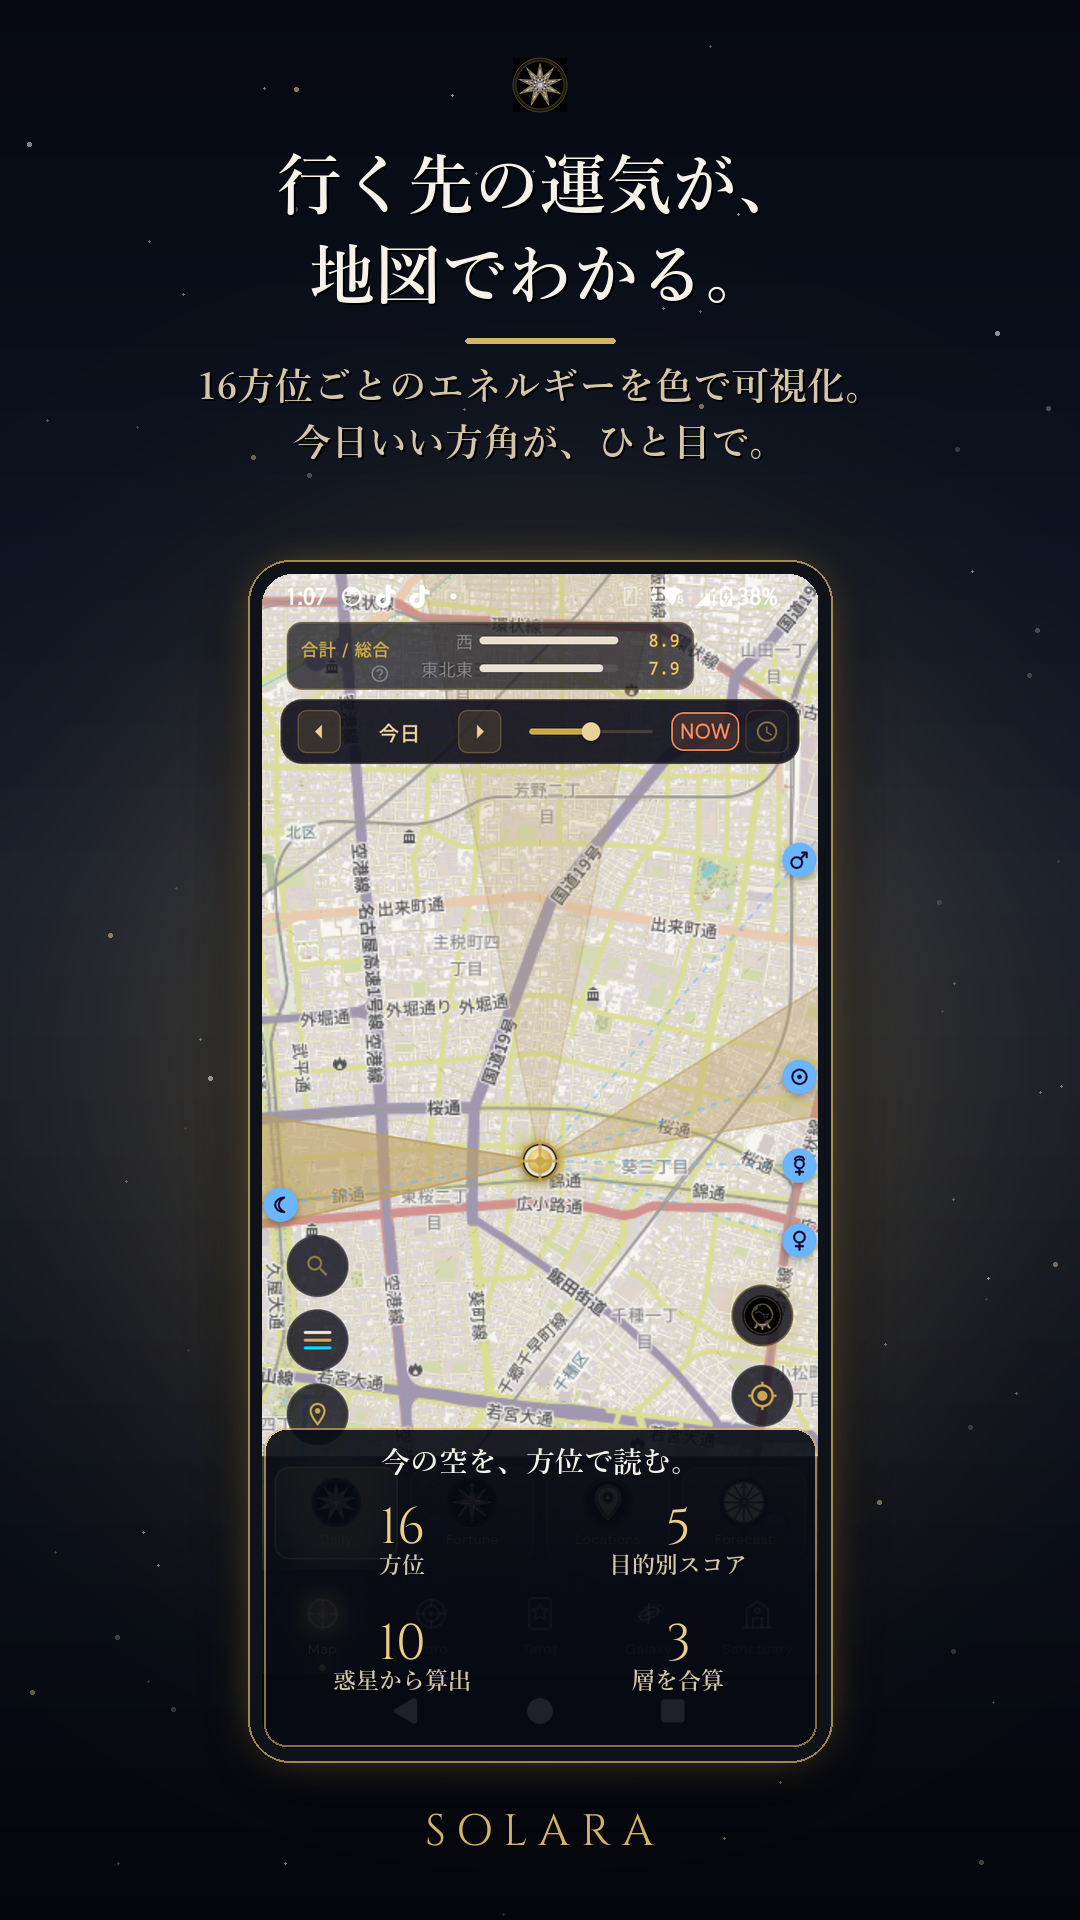
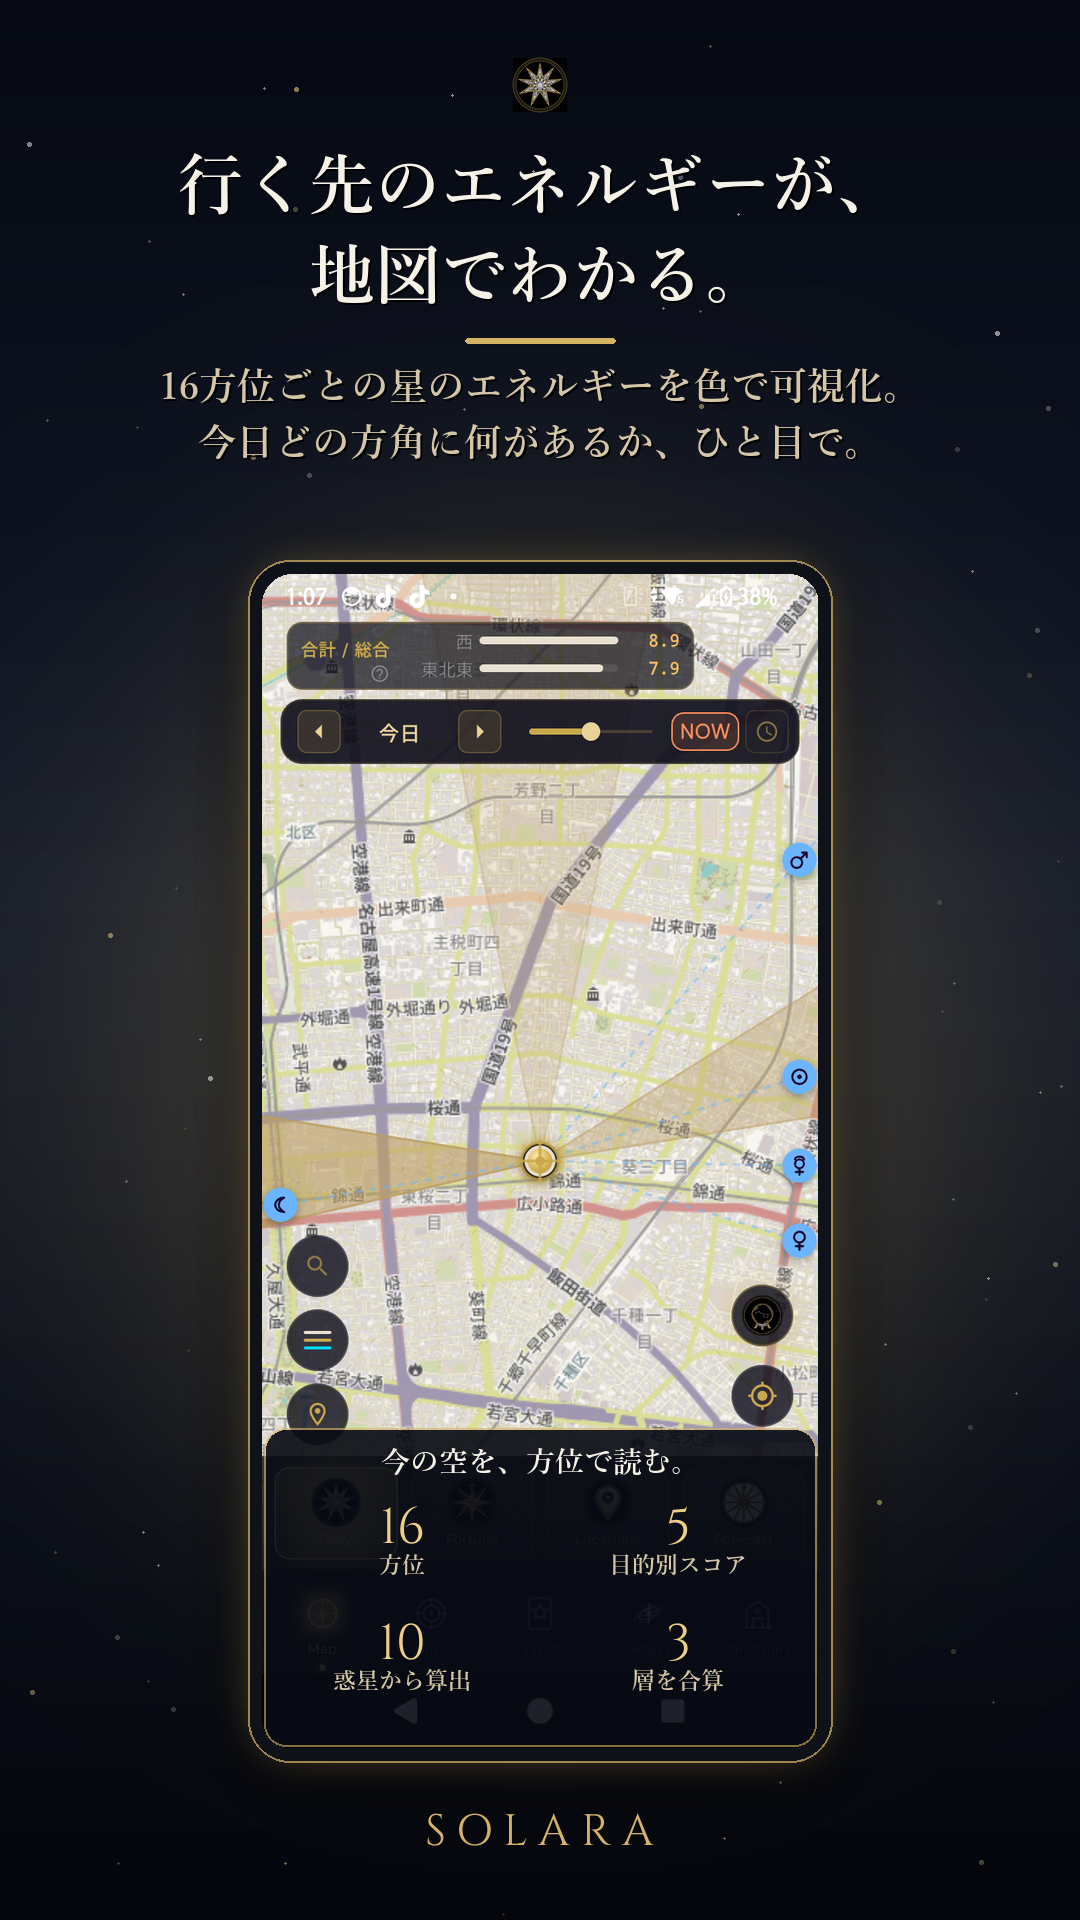
chore(solara): ストア提出物更新(スクショ再生成 + Apple/Google ストアテキスト + Android表示名Solara)
- スクショ11枚: 運勢系ワードを一掃して再生成
- Apple apple_app_store_connect.md: アプリ名(Solara: Astrolabe)/サブタイトル/プロモ/説明文/キーワード/キャプション/Beta説明 反映
- Google google_play_console.md: アプリ名(Solara — 人生のアストロラーベ)/簡単な説明/詳しい説明 反映
- フィーチャーグラフィック3案 更新(C採用)
- AndroidManifest: 表示名 Solara (次回ビルドで反映)
- make_store_screenshots.py / make_feature_graphic.py 更新

Changed region(s): [[0.1528, 0.1875, 0.825, 0.25], [0.2444, 0.0625, 0.7944, 0.125], [0.1528, 0.0938, 0.2139, 0.125]]

diff --git a/apps/solara/tools/make_feature_graphic.py b/apps/solara/tools/make_feature_graphic.py
@@ -31,7 +31,7 @@ IVORY = (242, 236, 223)
 CYAN = (130, 170, 200)
 
 WORDMARK = "SOLARA"
-TAGLINE = "占星術でひもとく自己探求"
+TAGLINE = "Your Astrolabe for When & Where"
 
 
 def font(path, size, wght=None):
@@ -235,7 +235,7 @@ def concept_C():
     d = ImageDraw.Draw(img)
     tx = 452
     fk = font(CINZEL, 23, 600)
-    draw_kicker(d, tx + 4, 158, "RELOCATION", "ASTROLOGY", fk, GOLD + (235,), 4, gap=18)
+    draw_kicker(d, tx + 4, 158, "CELESTIAL", "ASTROLABE", fk, GOLD + (235,), 4, gap=18)
     wm = gradient_text(WORDMARK, font(CINZEL, 100, 680), 10, GOLD_HI, GOLD_LO)
     img.alpha_composite(wm, (tx - 8, 184))
     d.line([tx + 6, 306, tx + 360, 306], fill=GOLD + (200,), width=2)

diff --git a/apps/solara/docs/store_compliance_assets/apple_app_store_connect.md b/apps/solara/docs/store_compliance_assets/apple_app_store_connect.md
@@ -33,12 +33,12 @@
 
 #### 名前 (30 字以内)
 ```
-Solara
+Solara: Astrolabe
 ```
 
 #### サブタイトル (30 字以内)
 ```
-西洋占星術と AI でひもとく自己探求
+時と場所を読む、人生のアストロラーベ
 ```
 
 #### プライバシーポリシー URL
@@ -146,97 +146,75 @@ https://solodev-lab.com/legal/solara/privacy.html
 
 ### D-1. プロモーション テキスト (170 字以内、リリース後も変更可)
 ```
-Solara は出生図とトランジットを土台に、AI が一人ひとりの解釈を紡ぐ西洋占星術の自己探求アプリです。タロット、地図上のアストロカートグラフィ、Stella との相談で、今の内的な季節を読み解きます。本アプリの読み解きは娯楽および自己内省のためのものです。
+これまでの占星術は「あなたがどんな人か」を語ってきました。Solaraはその先へ——「いつ・どこで・何をするか」まで、星で照らします。世界地図の惑星ラインと方位のエネルギーが結びつき、星の力を“意図して”味方にできる。人生の舵を、もう一度あなたの手に。
 ```
 
 ### D-2. 説明 (Description、4000 字以内)
 ```
-【ご利用前のおしらせ】
-Solara は娯楽および自己探求のためのアプリです。
-占星術・タロット・AI 相談はいかなる種類の専門的助言
-(医療・法律・金融・心理) も提供しません。
-将来の出来事を予測・保証するものではありません。
+これまでの占星術は、「あなたがどんな人か」を映してきました。
+Solara が照らすのは、その先——「いつ・どこで・何をするか」。
+星から「時」と「場所」を読み解く、あなただけのアストロラーベ。
+
+世界地図にあなたの惑星のラインが広がり、立つ場所と時間によって、主役の星が変わっていく。Solara は、占星術師のジム・ルイス氏が体系化したアストロカートグラフィ（ACG／CCG）と“方位”のエネルギーを一つに編み込み、「今この瞬間」と「向かう場所」のエネルギーを、言葉にして手渡す星読みアプリです。
+
+星に振り回されるのではなく、星を“意図して”味方につける。
+基準点はどこにする？ 日時はいつにする？——決めるのは、あなた自身。
+さあ、人生の舵を、もう一度あなたの手に。
+
+※ Solara は娯楽および自己探求のためのアプリです。医療・法律・金融・心理の助言や、将来の予測・保証は行いません。
 
 ──────────────
 
-Solara は、西洋占星術の精密な計算エンジンを土台に、
-AI が一人ひとりに合わせた解釈の言葉を紡ぐ自己探求アプリです。
-出生図・トランジット・プログレスの 3 層構造で、
-今のあなたを取り巻く星の動きを多角的に読み解きます。
+■ Solara にできること
 
-■ 主な機能
+◇ 世界地図で“星の地形”を読む（ACG／CCG）
+あなたの星が、世界のどこで、いつ強く働くのか。地図上のラインで一目に。旅・引っ越し・行きたい街を、星の視点で選べます。
 
-✦ 出生図 (ネイタルチャート)
-高精度の天体計算エンジンで、生まれた瞬間の星の配置を描画します。
-出生時刻が分からない場合でも、ハウスに依存しない読み解きが可能です。
+◇ 今いる場所から、16方位のエネルギー
+現在地を中心に、どの方角に星のエネルギーが満ちているか。「今日はどちらへ？」の、小さな道しるべに。
 
-✦ 今日の占い (Horoscope)
-AI が出生図と今日のトランジットを掛け合わせ、その日の星の動きを解釈します。
-全体・恋愛・豊かさ・仕事・対話の 5 カテゴリを 1 日 1 回お届けします。
+◇ 行き先を、見比べる
+職場・お店・デート先など気になる場所を登録し、日時×目的のエネルギーで並べて選べます。
 
-✦ タロット (Tarot)
-AI 解釈付きのタロットドロー。78 枚のカードと月相・エレメントを統合し、
-今の流れに寄り添う言葉を Stella (専属の占星術解釈エンジン) が紡ぎます。
+◇ あなただけの読み解き、毎日
+出生図 ×「今日」の星を掛け合わせ、12星座の一言では終わらない、あなた自身の言葉を紡ぎます。
 
-✦ アストロカートグラフィ (地図占星術)
-地図上に天体ラインを描画し、世界中の場所で星の影響がどう変わるかを可視化します。
-あなたの出生図がその地でどう作動するか、視覚的に読み解けます。
+◇ Stella との対話 ／ タロット ／ 一年のリズム ／ 美しい出生図 ／ 育つ星座のアーカイブ
+気になる候補地を比べ、78枚のカードに今を映し、365日の星の波を俯瞰し、生まれた瞬間の空を眺め、記録を重ねるごとに星座を育てる——知るための入り口を、いくつも。
 
-✦ 方角占い + Map Fortune
-現在地から見た 16 方位ごとに星のエネルギーをスコア化します。
-お出かけ・旅行・移住の参考にお使いください。
+──────────────
 
-✦ Stella との相談 (Cosmic Pro)
-お出かけ・旅行・移住先などのテーマで、Stella と対話形式で読み解きます。
-複数の候補地を、占星術的な「在るエネルギー」の観点で比較できます。
+■ Stella は、いつもあなたの味方
 
-✦ 西暦年運勢ヒートマップ
-1 年を通した日々の星の動きを、色のグラデーションで可視化します。
-内的なサイクルを俯瞰して捉えられます。
+Solara をつくったのは、現役の占星術師。物心ついた頃から、数えきれない人生相談に向き合ってきました。その経験とノウハウ、そして「あなたに幸せになってほしい」という願いを、アプリの中に棲む解釈エンジン “Stella” に託しています。
 
-✦ Galaxy (天体イベント可視化)
-新月・満月・水星逆行などのタイミングを、星座の動きとして体感できます。
+Solara が見せるのは、未来の言い当てではなく、膨大な星のデータから導いた“ひとつの解釈”。それをどう受け取り、どう動くかは、あなた次第。星も、Stella も、いつだってあなたの味方です。
 
-■ AI による解釈について
+──────────────
 
-本アプリの解釈文 (タロット・Stella 相談・今日の占い) は、
-Google の Gemini AI が生成しています。
-あなたの出生情報 (生年月日・出生時刻・出生地) と相談入力テキストは、
-解釈生成のために Google のサーバーへ送信されます。
-初回起動時に明示的な同意をいただきます。
+■ 無料でできること
+・世界地図の星のライン（ACG／CCG）4フレームすべて
+・毎日の星読み（全体運）と、1日1回のタロット
+・Stella との相談 週3回
+・あなたの記録の永久保存・検索・シェア
 
-■ Cosmic Pro (サブスクリプション)
+■ Cosmic Pro ― 星と地に重なる景色を、もっと深く
+・おでかけの「時刻」を指定し、“30分後の変化”まで読める。CCG の星の線は地球の自転で動き、その場の主役の星が静かに入れ替わります。
+・Stella との相談が 週100回 に。
+・星読みは全5カテゴリ＋深い読み。タロットは全7カテゴリをクレジット消費なしで、知りたいことを直接質問できます。
+・アスペクトライン 40本→120本、天頂帯・天底帯、引越しシミュレーション、そして5年先までの予測まで。
+価格・期間・自動更新は購入画面に表示されます。解約はいつでも可能です（次回更新日の24時間前まで）。
 
-無料機能だけでも 1 日 1 回の今日の占いとタロット 1 枚を楽しめます。
-Cosmic Pro にご登録いただくと、以下が追加で開放されます:
+■ ご利用にあたって
+・サインインなしで使えます（匿名OK）。出生情報はあなたの読み解きのためだけに使われ、アカウントはアプリ内からいつでも削除できます。
+・タロット・Stella・今日の読み解きの文章は、Google の生成AI「Gemini」が作成します。出生情報（生年月日・出生時刻・出生地）、現住所と入力テキストは、文章生成のため Google のサーバーへ送信されます。初回起動時に同意をお願いします。
 
-・Stella との相談 (週 100 回まで)
-・全カテゴリの今日の占い (恋愛・豊かさ・仕事・対話)
-・タロットのテーマ別ドロー (Pro 限定機能)
-・西暦年運勢ヒートマップの全期間表示
-
-価格・期間・自動更新の詳細は購入画面でご確認いただけます。
-解約は iOS の場合「設定 > Apple ID > サブスクリプション」、
-Android の場合「Google Play > サブスクリプション」からいつでも行えます。
-解約は次回更新日の 24 時間前までに行ってください。
-
-■ プライバシーと安全
-
-・出生情報はサインインなしでも入力できます (匿名利用可)
-・アカウントの削除はアプリ内 (Sanctuary > アカウント > 削除) から数タップで完了します
-・Apple サインインの場合、削除時に Apple 側の連携も自動解除されます
-
-■ 重要なご案内 (再掲)
-
-Solara が提供する占星術・タロット・AI 相談は、すべて娯楽および自己探求の
-ためのものです。医療・法律・金融・心理に関する専門的な助言ではありません。
-将来の出来事を予測・保証するものでもありません。
-重要な意思決定は、ご自身の意思と専門家への相談に基づいて行ってください。
+【重要なご案内】Solara の占星術・タロット・相談は、すべて娯楽および自己探求のためのものです。専門的な助言（医療・法律・金融・心理）ではなく、将来を予測・保証するものでもありません。大切な選択は、ご自身の意思と専門家への相談に基づいて行ってください。
 ```
 
 ### D-3. キーワード (100 字以内、カンマ区切り、半角)
 ```
-西洋占星術,出生図,トランジット,タロット,アストロカートグラフィ,星読み,自己探求,内省
+ホロスコープ,星占い,12星座,占星術,タロット,占い,相性,運勢,地図占星術,引っ越し,旅行,方角,パワースポット,ネイタルチャート,月星座,新月,満月,水星逆行,星読み,スピリチュアル
 ```
 
 ### D-4. サポート URL
@@ -252,7 +230,7 @@ https://solodev-lab.com/legal/solara/
 ### D-6. What's New in this Version (バージョン 1.0 初回なので)
 ```
 v1.0.0 — はじめての公開バージョン
-・西洋占星術の出生図・トランジット・プログレス
+・占星術の出生図・トランジット・プログレス
 ・今日の占い、タロット、Stella との相談
 ・地図上のアストロカートグラフィと方角占い
 ```
@@ -265,14 +243,19 @@ v1.0.0 — はじめての公開バージョン
 
 **推奨内容** (各 6.7-inch + 6.5-inch、合計最低 6 枚):
 
-| # | 画面 | キャッチコピー |
+| # | ファイル | 見出しキャッチコピー |
 |---|---|---|
-| 1 | Sanctuary (出生図) | 「あなたの出生図を読み解く」 |
-| 2 | 今日の占い (Horoscope) | 「AI が今日の星の動きを解釈する」 |
-| 3 | Map (アストロカートグラフィ) | 「世界地図で星の影響を見る」 |
-| 4 | Tarot 結果 | 「タロットの解釈を Stella が紡ぐ」 |
-| 5 | Stella 相談 結果 | 「お出かけ・旅行先を星の観点で見つける」 |
-| 6 | Galaxy | 「天体イベントを体感する」 |
+| 01 | 01_map_energy | 行く先のエネルギーが、地図でわかる。 |
+| 02 | 02_acg_ccg | 行く土地と動く時で、主役の星が変わる。 |
+| 03 | 03_locations | その日時・その場所のエネルギーが全部わかる。 |
+| 04 | 04_search_energy | 検索した店のエネルギーが、ひと目で並ぶ。 |
+| 05 | 05_stella_result | お出かけも、移住も。ぜんぶ星に相談。 |
+| 06 | 06_horoscope | 精密な出生図が、すべての土台。 |
+| 07 | 07_cycle | 恋も、豊かさも。めぐる季節を、先に。 |
+| 08 | 08_heatmap | 1年の星のリズムを、色で見渡す。 |
+| 09 | 09_star_reading | 星が語る、今日のあなたへの指針。 |
+| 10 | 10_tarot | タロットが照らす、心の奥の答え。 |
+| 11 | 11_star_atlas | 夜空にあなただけの星座が生まれる。 |
 
 🔴 **キャッチコピーで NG**: 「占い」「運勢」「予言」「的中」「保証」 (Apple 2.3.10 検出対象)
 
@@ -343,8 +326,8 @@ Test account credentials are provided in the Sign-In Information section above.
 
 #### Beta App 説明
 ```
-Solara — 西洋占星術と AI による自己探求アプリのテスト版です。
-出生図・トランジット・プログレスを土台にした星読み、AI が紡ぐタロット解釈、
+Solara — 占星術による自己探求アプリのテスト版です。
+出生図・トランジット・プログレスを土台にした星読み、Stella が紡ぐタロット解釈、
 地図上のアストロカートグラフィ、Stella との相談 (Cosmic Pro 機能) をお試しください。
 ```
 
